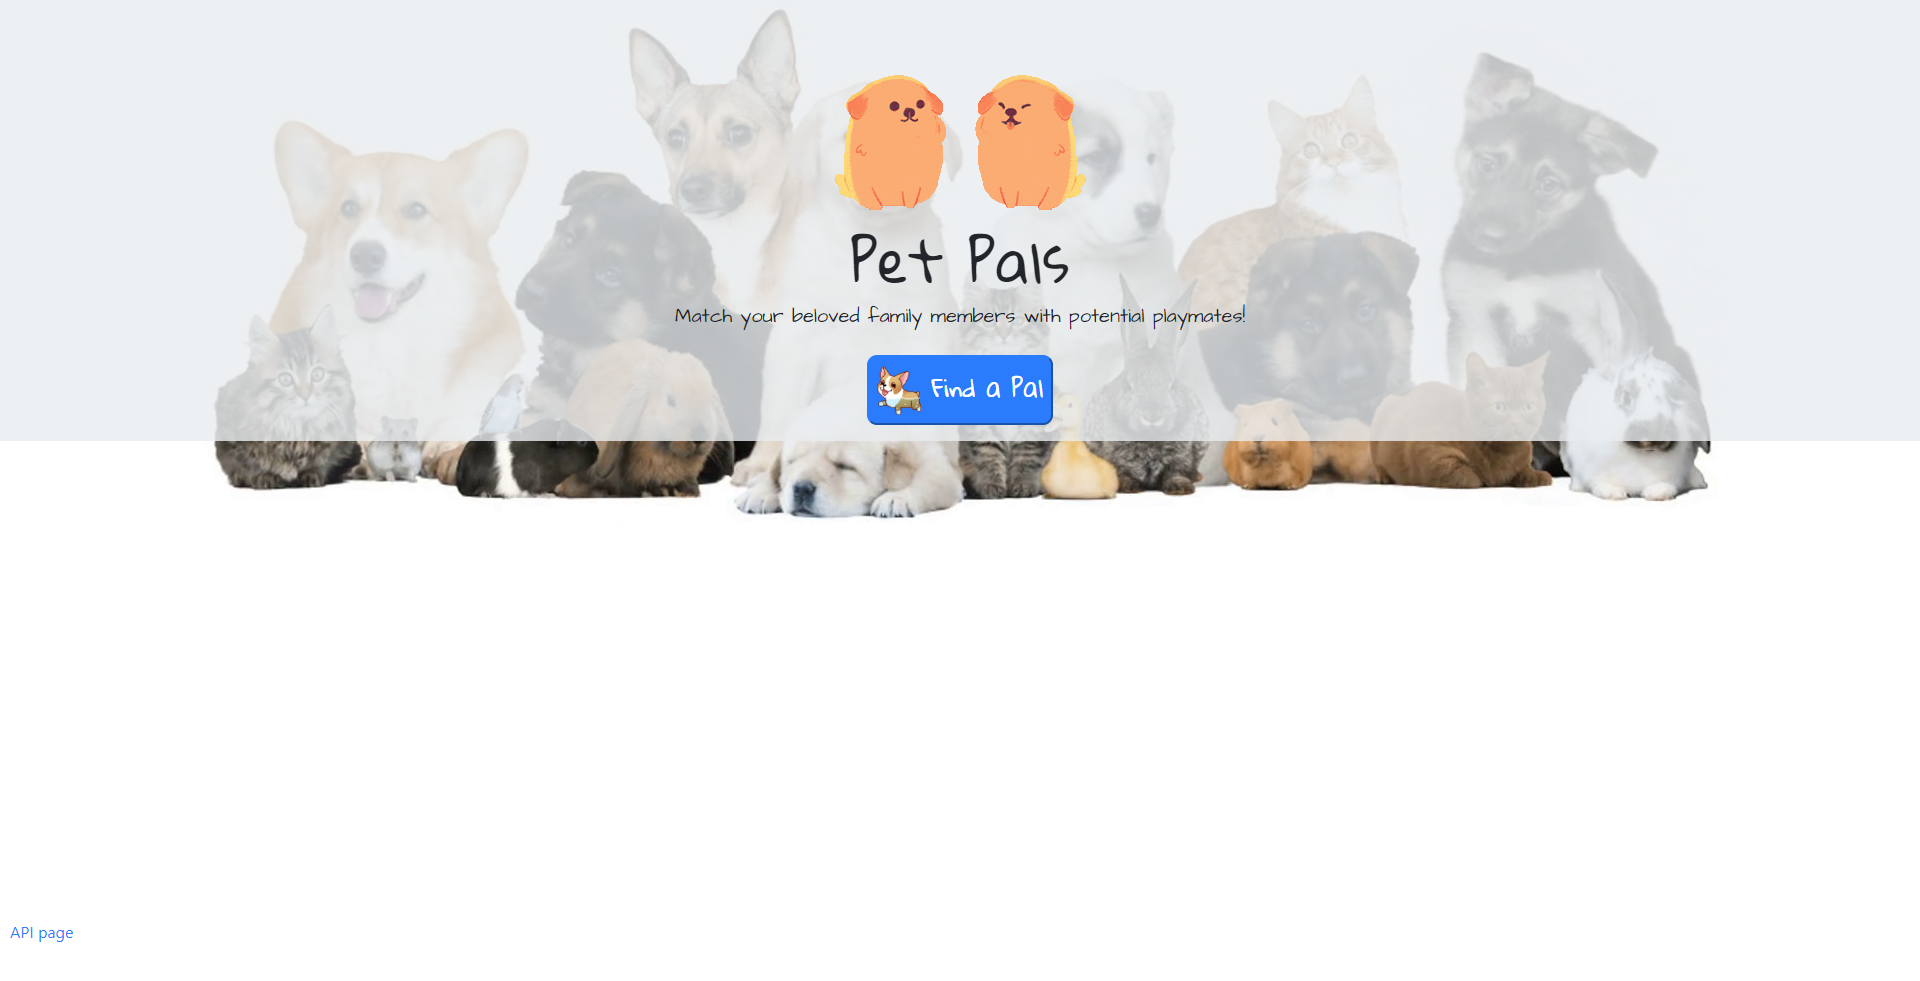
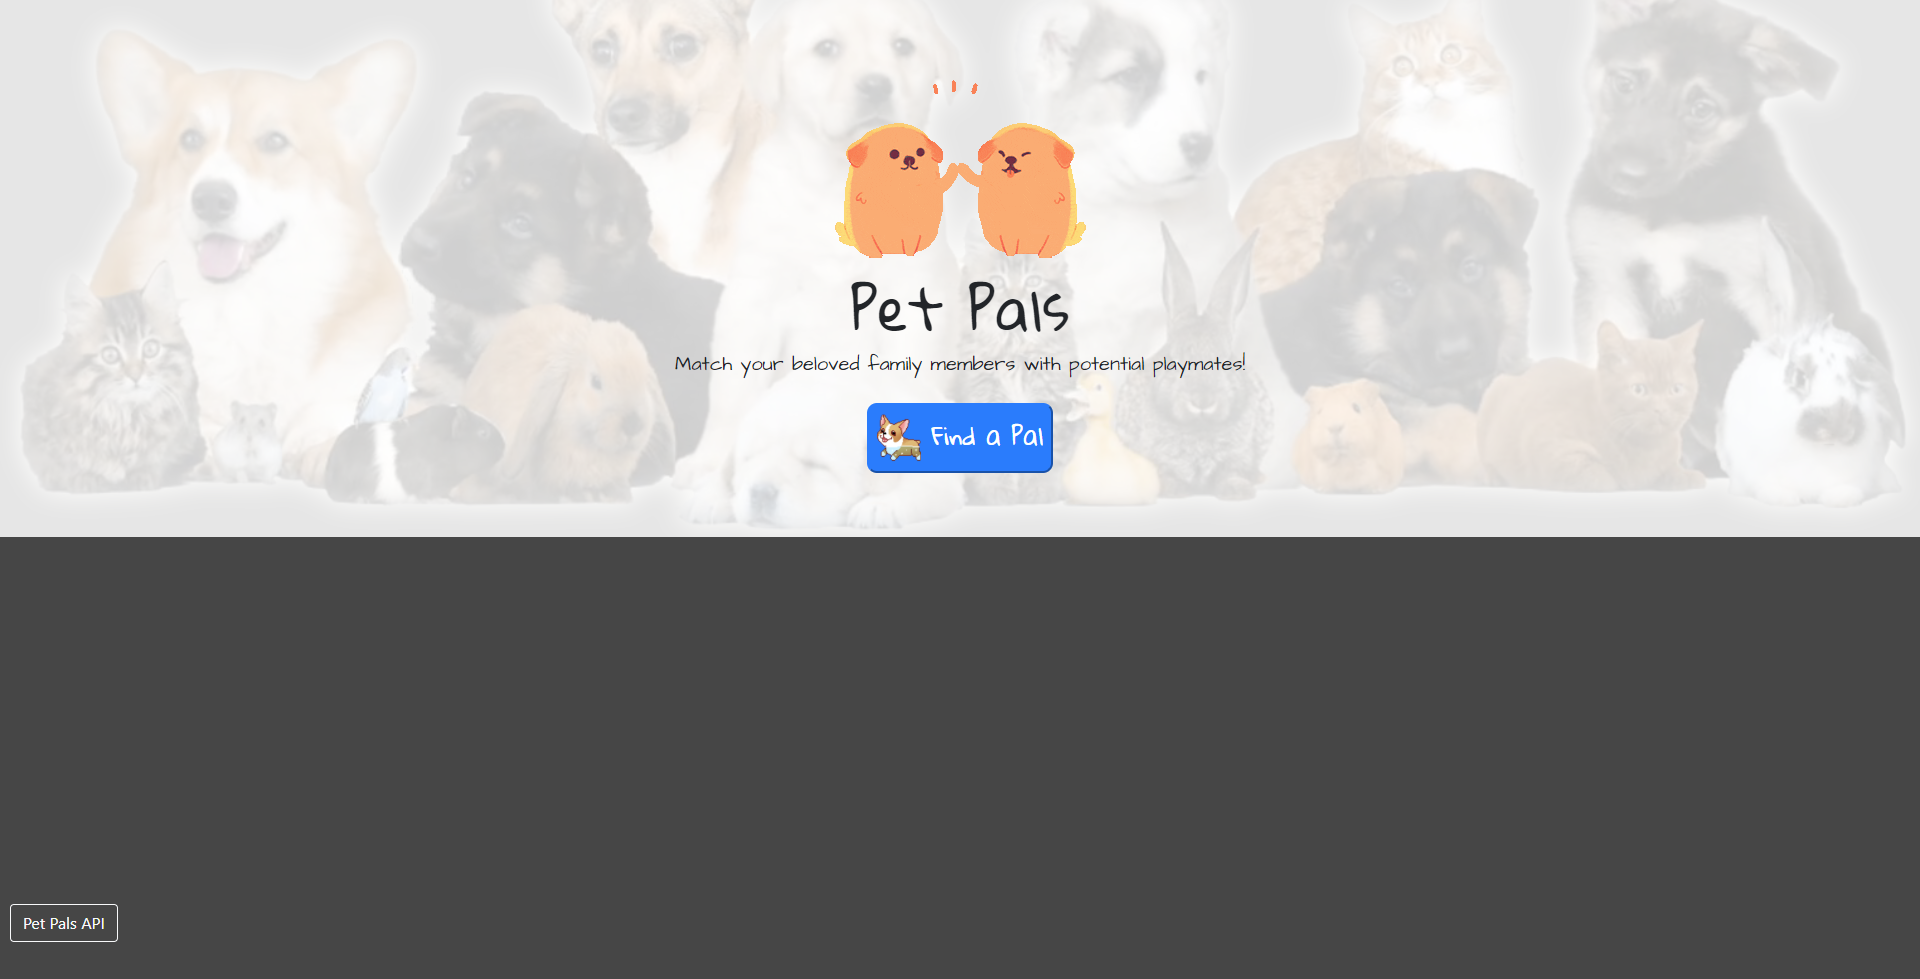
add restaurant tracker, update pet pals image

diff --git a/assets/javascript/script.js b/assets/javascript/script.js
@@ -28,8 +28,14 @@ var projectList = [{name: "MoveMe",
                     description: "Find a new friend for your pet!",
                     url: "https://peaceful-dusk-98568.herokuapp.com/",
                     GHurl: "https://github.com/robertshaw87/Friend-Finder"
+                }, {name: "Restaurant Tracker",
+                    tags: ["Html", "CSS", "Javascript", "jQuery", "Bootstrap", "Node.js", "Express.js", "SQL", "Show All"],
+                    image: "assets/images/Restaurant-Tracker.png",
+                    description: "Create a list of restaurants you wish to visit and save whether you liked them or not!",
+                    url: "https://fathomless-coast-46070.herokuapp.com/",
+                    GHurl: "https://github.com/robertshaw87/Restaurant-Tracker"
                 }, {name: "Explore the Stars",
-                    tags: ["Html", "CSS", "Javascript", "jQuery", "Bootstrap", "Show All"],
+                    tags: ["Just For Fun", "Html", "CSS", "Javascript", "jQuery", "Bootstrap"],
                     image: "assets/images/WordGuess.jpg",
                     description: "Guess the chosen word within a limited number of tries!",
                     url: "https://robertshaw87.github.io/Word-Guess-Game/",
